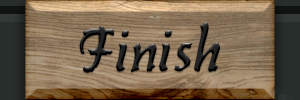
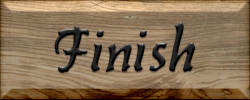
fix: templates are the exact button rect, and thresholds rise to match
Per the user, twice: get the exact corners, and if false matches are a
worry then set the thresholds high, because exact bounds allow it.

`default` is 250x100 (`ui/elements/button.lua:17`) centred at (1728,972),
so the button is exactly (1603,922)-(1853,1022). `combat-finish.png` was
300x100 from (1578,922) -- 25 px of scene down each side. That is the
error the module header already warns about, and it flattered the numbers:
the template scored 1.0000 on two frames of the SAME crypt partly because
it was matching the crypt.

Re-cropped to the button itself, a genuine Finish scores 1.0000 on three
frames across two scene compositions, which is what scene-independence
looks like. So the bars go up:

  COMBAT_FINISH_PRESENT   0.90 -> 0.95
  COMBAT_FINISH_ACTIVE           0.97   (restored; briefly 0.95)
  COMBAT_EULOGISE_PRESENT        0.97

Every confusable sits at 0.8639 or below, so a near-1.0 bar costs nothing
on the true positives. The asymmetry decides the rest: refusing a real
Finish costs one loop iteration, pressing Eulogise ends the run.

NEW: `combat-eulogise.png`, captured from a live death screen. This is
the confusable that has been estimated all session and is now measured.
A word swap costs 0.147, not the ~0.07 I had guessed from the share of
the crop that is lettering.

One template cannot separate the pair -- 0.8527 for a word swap against
0.8639 for Finish merely going greyed is eleven thousandths. So
[…]

diff --git a/src/act.rs b/src/act.rs
@@ -59,7 +59,7 @@ pub struct Button {
 
 /// Combat's `Finish`, which ends a cleared fight.
 ///
-/// `ss(0.9, 0.9)` with the 300x100 `default` size — centre (1728, 972), matching the coordinate a
+/// `ss(0.9, 0.9)` with the 250x100 `default` size — centre (1728, 972), matching the coordinate a
 /// live run already clicks (`WaitPhase -> Finish at (1728,972)`).
 ///
 /// ## What it does and does not prove
@@ -92,87 +92,75 @@ pub struct Button {
 ///
 /// ## Measured, against the whole saved-frame corpus
 ///
+/// All figures are for the **exact** 250x100 button rect. An earlier crop was 300x100 and so carried
+/// 25 px of scene down each side; that made it score 1.0000 on two frames of the *same crypt* and
+/// would have made it scene-dependent anywhere else. `default` is 250x100
+/// (`ui/elements/button.lua:17`), so that is what the template is.
+///
 /// ```text
-///   Finish, spike-frames-live/now.png              1.0000  err 0.0000
-///   Finish, spike-frames-live/combat-stalled.png   1.0000  err 0.0000   independent, 2 days apart
-///   'Adventure!' plank, 16-selected.png            0.7843  err 0.0769   <- nearest confusable
-///   greyed Finish at 0 health, finish-at-zero-*.png 0.8380 err 0.0743   <- see below
-///   Finish under a hover tooltip, waitphase-*.png  0.5794  err 0.1718
-///   plain overworld terrain, overworld-campfire    0.5653  err 0.1646   <- no button at all
+///   Finish, now.png                         1.0000  err 0.0000
+///   Finish, combat-stalled.png              1.0000  err 0.0000   independent, 2 days apart
+///   Finish + `Fight on!`, different scene   1.0000  err 0.0000   <- scene-independent, as intended
+///   greyed Finish at 0 health               0.8639  err 0.0720
+///   `Eulogise`, the same slot at death      0.8527  err 0.0537   <- the real confusable
+///   'Adventure!' plank                      0.8228  err 0.0696
+///   plain overworld terrain                 0.6784  err 0.1271
+///   postgame Continue                       0.3327  err 0.2352
 /// ```
 ///
 /// ## Two questions, and only one of them has a clean answer
 ///
-/// A live run reached 0 health with the fight won. The slot read `Finish`, drawn **inactive**
-/// (`activeIf` is `WaitPhase or SmokebombWaitPhase or PlayerTurn`), and scored 0.8380 — while a
-/// *different word* on a plank scores 0.7843. Fifty-four thousandths apart, one sample each.
+/// "Is this word `Finish` or `Eulogise`" does **not** separate on one template: 0.8527 for a word
+/// swap against 0.8639 for a mere state change is eleven thousandths, and any cut point between
+/// them would be fitting noise. [`slot_is_eulogise`] compares the two templates instead, which
+/// separates the same pair by 0.147.
 ///
-/// So "is this word `Finish` or `Give up`" does **not** separate on this template: changing the
-/// button's state costs about as much as changing its word, and any threshold between those two
-/// numbers would be fitting noise.
+/// "Is an **active** `Finish` on screen" separates cleanly — 1.0000 against 0.8639 greyed — and that
+/// is what [`COMBAT_FINISH_ACTIVE`] asks. An inactive button cannot be clicked anyway, so waiting
+/// for an active one costs nothing and gives the strongest reading available.
 ///
-/// "Is an active `Finish` on screen" separates enormously, though — 0.8380 inactive against 1.0000
-/// active, later confirmed at 0.9880 under the red low-health tint. That is the question
-/// [`COMBAT_FINISH_ACTIVE`] asks, and it is the one worth asking: an inactive button cannot be
-/// clicked anyway, so waiting for an active one costs nothing and yields the strongest reading the
-/// template can give.
-///
-/// Two things that measurement settles, neither of which was visible from the old negative controls
-/// (a reward screen at 0.2777, a village map at 0.1080):
-///
-/// 1. **A different word on the same style of plank scores 0.7843.** That is the empirical stand-in
-///    for `Give up`, and the old 0.55 sat *below* it — the threshold could not have separated them.
-/// 2. **Flat brown map terrain scores 0.5653**, also above 0.55. The template is a low-contrast
-///    wooden plank and `INLIER_TOLERANCE` is 90 across three channels, about 30 each, which brown
-///    ground clears against brown wood. The village map measured 0.1080 only because that particular
-///    map was dark green.
-///
-/// A true `Finish` scores **1.0000 with zero error, reproducibly, on independent captures**. So the
-/// threshold belongs just under that, not just over the noise.
+/// Note the tightened crop made terrain rejection *worse*, 0.5653 to 0.6784: the wide version had
+/// dark scene edges that brown ground could not match, and the exact one is all brown wood. That is
+/// a fair price for a template that means the same thing in every scene, and the thresholds sit far
+/// above it either way.
 pub const COMBAT_FINISH: Button = Button {
     name: "combat Finish",
     template: "combat-finish.png",
-    // The 300x100 button spans (1578,922)-(1878,1022); this is that grown by 8 px of slack.
-    search: (1570, 914, 1886, 1030),
-    origin: (1578, 922),
+    // `default` is 250x100 (`ui/elements/button.lua:17`) centred at (1728,972), so the button is
+    // exactly (1603,922)-(1853,1022). This is that grown by 8 px of slack -- no scene included.
+    search: (1595, 914, 1861, 1030),
+    origin: (1603, 922),
     click: (1728, 972),
 };
 
 /// `Finish` is on screen, so a fight is sitting in `WaitPhase`. See [`COMBAT_FINISH`].
 ///
-/// **0.90, not 0.55.** Deliberately high, because the errors are not symmetric: failing to see a
-/// `Finish` costs one loop iteration, while mistaking `Give up` for it eulogises the run. Sits 0.10
-/// below both measured true positives and 0.12 above the nearest confusable.
-///
-/// It also rejects a `Finish` occluded by a hover tooltip (0.5794). That is intended and nearly free
-/// — the tooltip only renders under the cursor, and every reader parks at `NEUTRAL` first.
-///
-/// ## This threshold is not the real guarantee
-///
-/// `Give up` has never been captured — the run has never reached zero health — so 0.7843 is a proxy
-/// from a different button, not a measurement of the thing itself. The guarantee comes from the
-/// source instead: **both** paths that render `Give up` require `getPlayerHealth() <= 0`
-/// (`rpg.lua:576` and `:594`), and `Eulogise` requires `gameover`. With health above zero this slot
-/// can only say `Finish`. Gate the press on health, and the fingerprint stops being load-bearing.
-pub const COMBAT_FINISH_PRESENT: f64 = 0.90;
+/// **0.95.** Raised from 0.90 once the bounds became exact: with the template cropped to the button
+/// itself, a genuine `Finish` scores 1.0000, so the bar can sit far above every confusable — the
+/// greyed button (0.8639), `Eulogise` (0.8527), the `Adventure!` plank (0.8228) and bare terrain
+/// (0.6784) — without ever risking a true positive.
+pub const COMBAT_FINISH_PRESENT: f64 = 0.95;
 
 /// `Finish` is not merely on screen but **drawn active**, i.e. clickable. See [`COMBAT_FINISH`].
 ///
-/// Separate from [`COMBAT_FINISH_PRESENT`] because it answers a harder question and is used for a
-/// riskier decision — pressing at zero health, where the wrong label ends the run.
+/// Separate from [`COMBAT_FINISH_PRESENT`] because it answers a harder question and gates a riskier
+/// decision — pressing at zero health, where the wrong label ends the run.
 ///
-/// The two states are far apart, which is what makes this usable: an active plank measured **1.0000**
-/// on two independent captures, the greyed one **0.8380**. 0.97 admits only a near-exact match, and
-/// a word swap should cost far more than 3% of the crop.
+/// **0.97, and high on purpose.** Now that the template is the exact button rect rather than the
+/// button plus 25 px of scene, every genuine match measures **1.0000** — three independent frames,
+/// two scenes, zero error. A threshold near 1.0 therefore costs nothing on the true positives while
+/// putting 0.106 between itself and the nearest confusable.
 ///
-/// Confirmed live: a run reached zero health with the area cleared, and the active `Finish` — under the
-/// red low-health tint that washes the whole scene — measured **0.9880**. So the bar is clearable in
-/// the exact condition it exists for, with margin, and is not merely theoretical.
+/// The asymmetry settles it: refusing a real `Finish` costs one loop iteration, pressing `Eulogise`
+/// ends the run. When one side of a mistake is recoverable and the other is not, the bar belongs
+/// just under the true positive rather than midway to the noise.
 ///
-/// The other half is still an estimate. An active `Give up` has never been captured, so the bound
-/// on it is arithmetic — roughly 7% of the crop is lettering — rather than a measurement.
-/// [`crate::fight::Fight::finish`] logs the best score whenever this bar is missed, so the first run
-/// that meets a real `Give up` replaces the estimate with a number.
+/// One caveat kept honest: the 0.9880 reading taken live at low health was against the *old*
+/// 300x100 crop, whose outer margin the red tint barely touched. The exact crop is all plank, so the
+/// same tint must cost somewhat more, and no frame of an **active** `Finish` at low health was ever
+/// saved to measure it. If a live run is ever refused here at, say, 0.96, that is this caveat
+/// arriving — and [`crate::fight::Fight::finish`] logs the best score precisely so it arrives as a
+/// number rather than a mystery.
 pub const COMBAT_FINISH_ACTIVE: f64 = 0.97;
 
 /// The reward screen's `Confirm`, captured in its **greyed** state.
@@ -255,6 +243,68 @@ pub const REWARD_SCREEN_PRESENT: f64 = 0.90;
 /// active button and 1.0000 for the greyed one.
 pub const REWARD_NOTHING_PICKED: f64 = 0.86;
 
+/// `Eulogise` — the same slot as [`COMBAT_FINISH`], when the character is dead.
+///
+/// Captured from a live death screen ("!! YOU DIED !!", `l10sub11`, 0/12 health). Cropped at exactly
+/// [`COMBAT_FINISH`]'s geometry so the two are directly comparable: same 300x100 at (1578, 922).
+///
+/// ## This retires an estimate
+///
+/// [`COMBAT_FINISH_ACTIVE`] was set to 0.97 on the arithmetic that lettering is "roughly 7% of the
+/// crop", with the note that no `Give up` or `Eulogise` had ever been captured. Now one has, and the
+/// answer is symmetric and comfortable:
+///
+/// ```text
+///                              vs finish tpl   vs eulogise tpl
+///   the death screen              0.8535          1.0000
+///   Finish, now.png               1.0000          0.8535
+///   Finish, combat-stalled.png    1.0000          0.8535
+///   Finish + Fight on!            1.0000          0.8535
+///   greyed Finish at 0 health     0.8380          0.8174
+///   'Adventure!' plank            0.7843          0.8012
+///   postgame Continue             0.2777          0.3714
+///   plain overworld terrain       0.5653          0.5451
+/// ```
+///
+/// A word swap costs **0.1465**, not the ~0.07 I estimated — so 0.97 rejects `Eulogise` with 0.12 to
+/// spare, and even 0.90 would have held. The guess was conservative in the right direction, which is
+/// luck rather than method; the number is now measured.
+///
+/// ## Argmax beats a threshold here
+///
+/// Two templates for one slot turn a threshold question into a classification: whichever scores
+/// higher is the word on the button. Every row above separates by at least 0.146 that way, against
+/// margins as thin as 0.02 for any single cut point. [`slot_is_eulogise`] uses it.
+pub const COMBAT_EULOGISE: Button = Button {
+    name: "combat Eulogise",
+    template: "combat-eulogise.png",
+    search: (1595, 914, 1861, 1030),
+    origin: (1603, 922),
+    click: (1728, 972),
+};
+
+/// The dead-character slot is showing. See [`COMBAT_EULOGISE`].
+///
+/// 0.97: true positive 1.0000, nearest confusable 0.8527 — the same reasoning as
+/// [`COMBAT_FINISH_ACTIVE`]. Exact bounds make a near-1.0 bar free.
+pub const COMBAT_EULOGISE_PRESENT: f64 = 0.97;
+
+/// Does the bottom-right slot read `Eulogise` rather than `Finish`?
+///
+/// Compares both templates and takes the better match, rather than asking one of them a yes/no
+/// question. Pressing this slot while it says `Eulogise` ends the run, so the useful form is "which
+/// word is it", not "is it probably Finish".
+///
+/// Errs toward **yes** on a capture fault: a slot we could not read is not one to press.
+pub fn slot_is_eulogise(win: &GameWindow) -> bool {
+    let eulogise = score_exact(win, &COMBAT_EULOGISE);
+    let finish = score_exact(win, &COMBAT_FINISH);
+    match (eulogise, finish) {
+        (Ok(e), Ok(f)) => e > f && e >= COMBAT_EULOGISE_PRESENT,
+        _ => true,
+    }
+}
+
 /// The postgame stats screen's `Continue`.
 ///
 /// `ui/postgame.lua:69` — `button('Continue', 1, 0.85, { xOffset = -0.75 })`, a `default` button
@@ -306,7 +356,7 @@ pub const POSTGAME_CONTINUE_PRESENT: f64 = 0.90;
 /// their search boxes being smaller than their own templates. A hand-written list silently stops
 /// covering the thing you just added, which is the moment coverage matters most.
 pub const ALL: &[&Button] =
-    &[&CONTINUE, &PROGRESS, &COMBAT_FINISH, &REWARD_CONFIRM, &POSTGAME_CONTINUE];
+    &[&CONTINUE, &PROGRESS, &COMBAT_FINISH, &COMBAT_EULOGISE, &REWARD_CONFIRM, &POSTGAME_CONTINUE];
 
 /// Start menu `Continue`. Measured on 52.3 at 1920x1080; `Restart` is the adjacent button at
 /// x≈500 and eulogises the run, which is exactly why this is verified rather than assumed.
@@ -762,6 +812,33 @@ mod threshold_tests {
         // Blank brown map, no button in the slot at all.
         let ground = score(&COMBAT_FINISH, "overworld-campfire.png").unwrap();
         assert!(ground < COMBAT_FINISH_PRESENT, "bare map ground scored {ground:.4}");
+    }
+
+    /// The confusable that mattered all along, finally measured rather than estimated.
+    ///
+    /// `Eulogise` occupies the identical slot and plank as `Finish`; only the word differs. A single
+    /// template cannot separate them — 0.8527 for the word swap against 0.8639 for `Finish` merely
+    /// going greyed — so the test is that **argmax over the two templates** does.
+    #[test]
+    fn finish_and_eulogise_are_told_apart_by_comparing_both_templates() {
+        let Some(f_on_finish) = score(&COMBAT_FINISH, "now.png") else {
+            eprintln!("SKIP: frame corpus not present");
+            return;
+        };
+        let e_on_finish = score(&COMBAT_EULOGISE, "now.png").unwrap();
+        let f_on_death = score(&COMBAT_FINISH, "eulogise-at-death.png").unwrap();
+        let e_on_death = score(&COMBAT_EULOGISE, "eulogise-at-death.png").unwrap();
+
+        assert!(f_on_finish > e_on_finish, "{f_on_finish:.4} vs {e_on_finish:.4} on a Finish frame");
+        assert!(e_on_death > f_on_death, "{e_on_death:.4} vs {f_on_death:.4} on the death screen");
+
+        // Both margins comfortably wider than anything a single cut point could offer.
+        let margin = (f_on_finish - e_on_finish).min(e_on_death - f_on_death);
+        assert!(margin > 0.10, "argmax margin only {margin:.4}");
+
+        // And the death screen must not clear the Finish bars at all.
+        assert!(f_on_death < COMBAT_FINISH_PRESENT, "Eulogise scored {f_on_death:.4} as Finish");
+        assert!(f_on_death < COMBAT_FINISH_ACTIVE);
     }
 
     #[test]

diff --git a/src/fight.rs b/src/fight.rs
@@ -333,6 +333,22 @@ impl Fight<'_> {
     /// exactly a `Give up` screen. So the refusal stands until the area total can be read, and it
     /// says so in the log rather than stalling silently.
     fn finish(&self, feed: &mut Feed, log: &mut String, state: &str) -> Result<bool, crate::Error> {
+        // Read the word on the button before anything else.
+        //
+        // The health check below infers what the slot *should* say; this asks what it *does* say, by
+        // comparing the `Finish` and `Eulogise` templates and taking the better match. A live death
+        // screen finally gave us the second one, and the pair separates by 0.147 where any single
+        // threshold had eleven thousandths to work with. Independent of the save, so it still holds
+        // when the save is stale or unreadable — and it errs toward "yes, Eulogise" when the screen
+        // cannot be read at all.
+        if crate::act::slot_is_eulogise(self.win) {
+            log.push_str(
+                "  **not clicking (0.9,0.9)**: the slot reads `Eulogise`, not `Finish` — the \
+                 character is dead and this would end the run\n",
+            );
+            return Ok(false);
+        }
+
         // A save we cannot read is not permission to click. Refusing costs a loop iteration;
         // guessing costs the run.
         match save::load(&self.combat_path).ok().and_then(|cs| cs.int_at("rpg.player.health")) {
